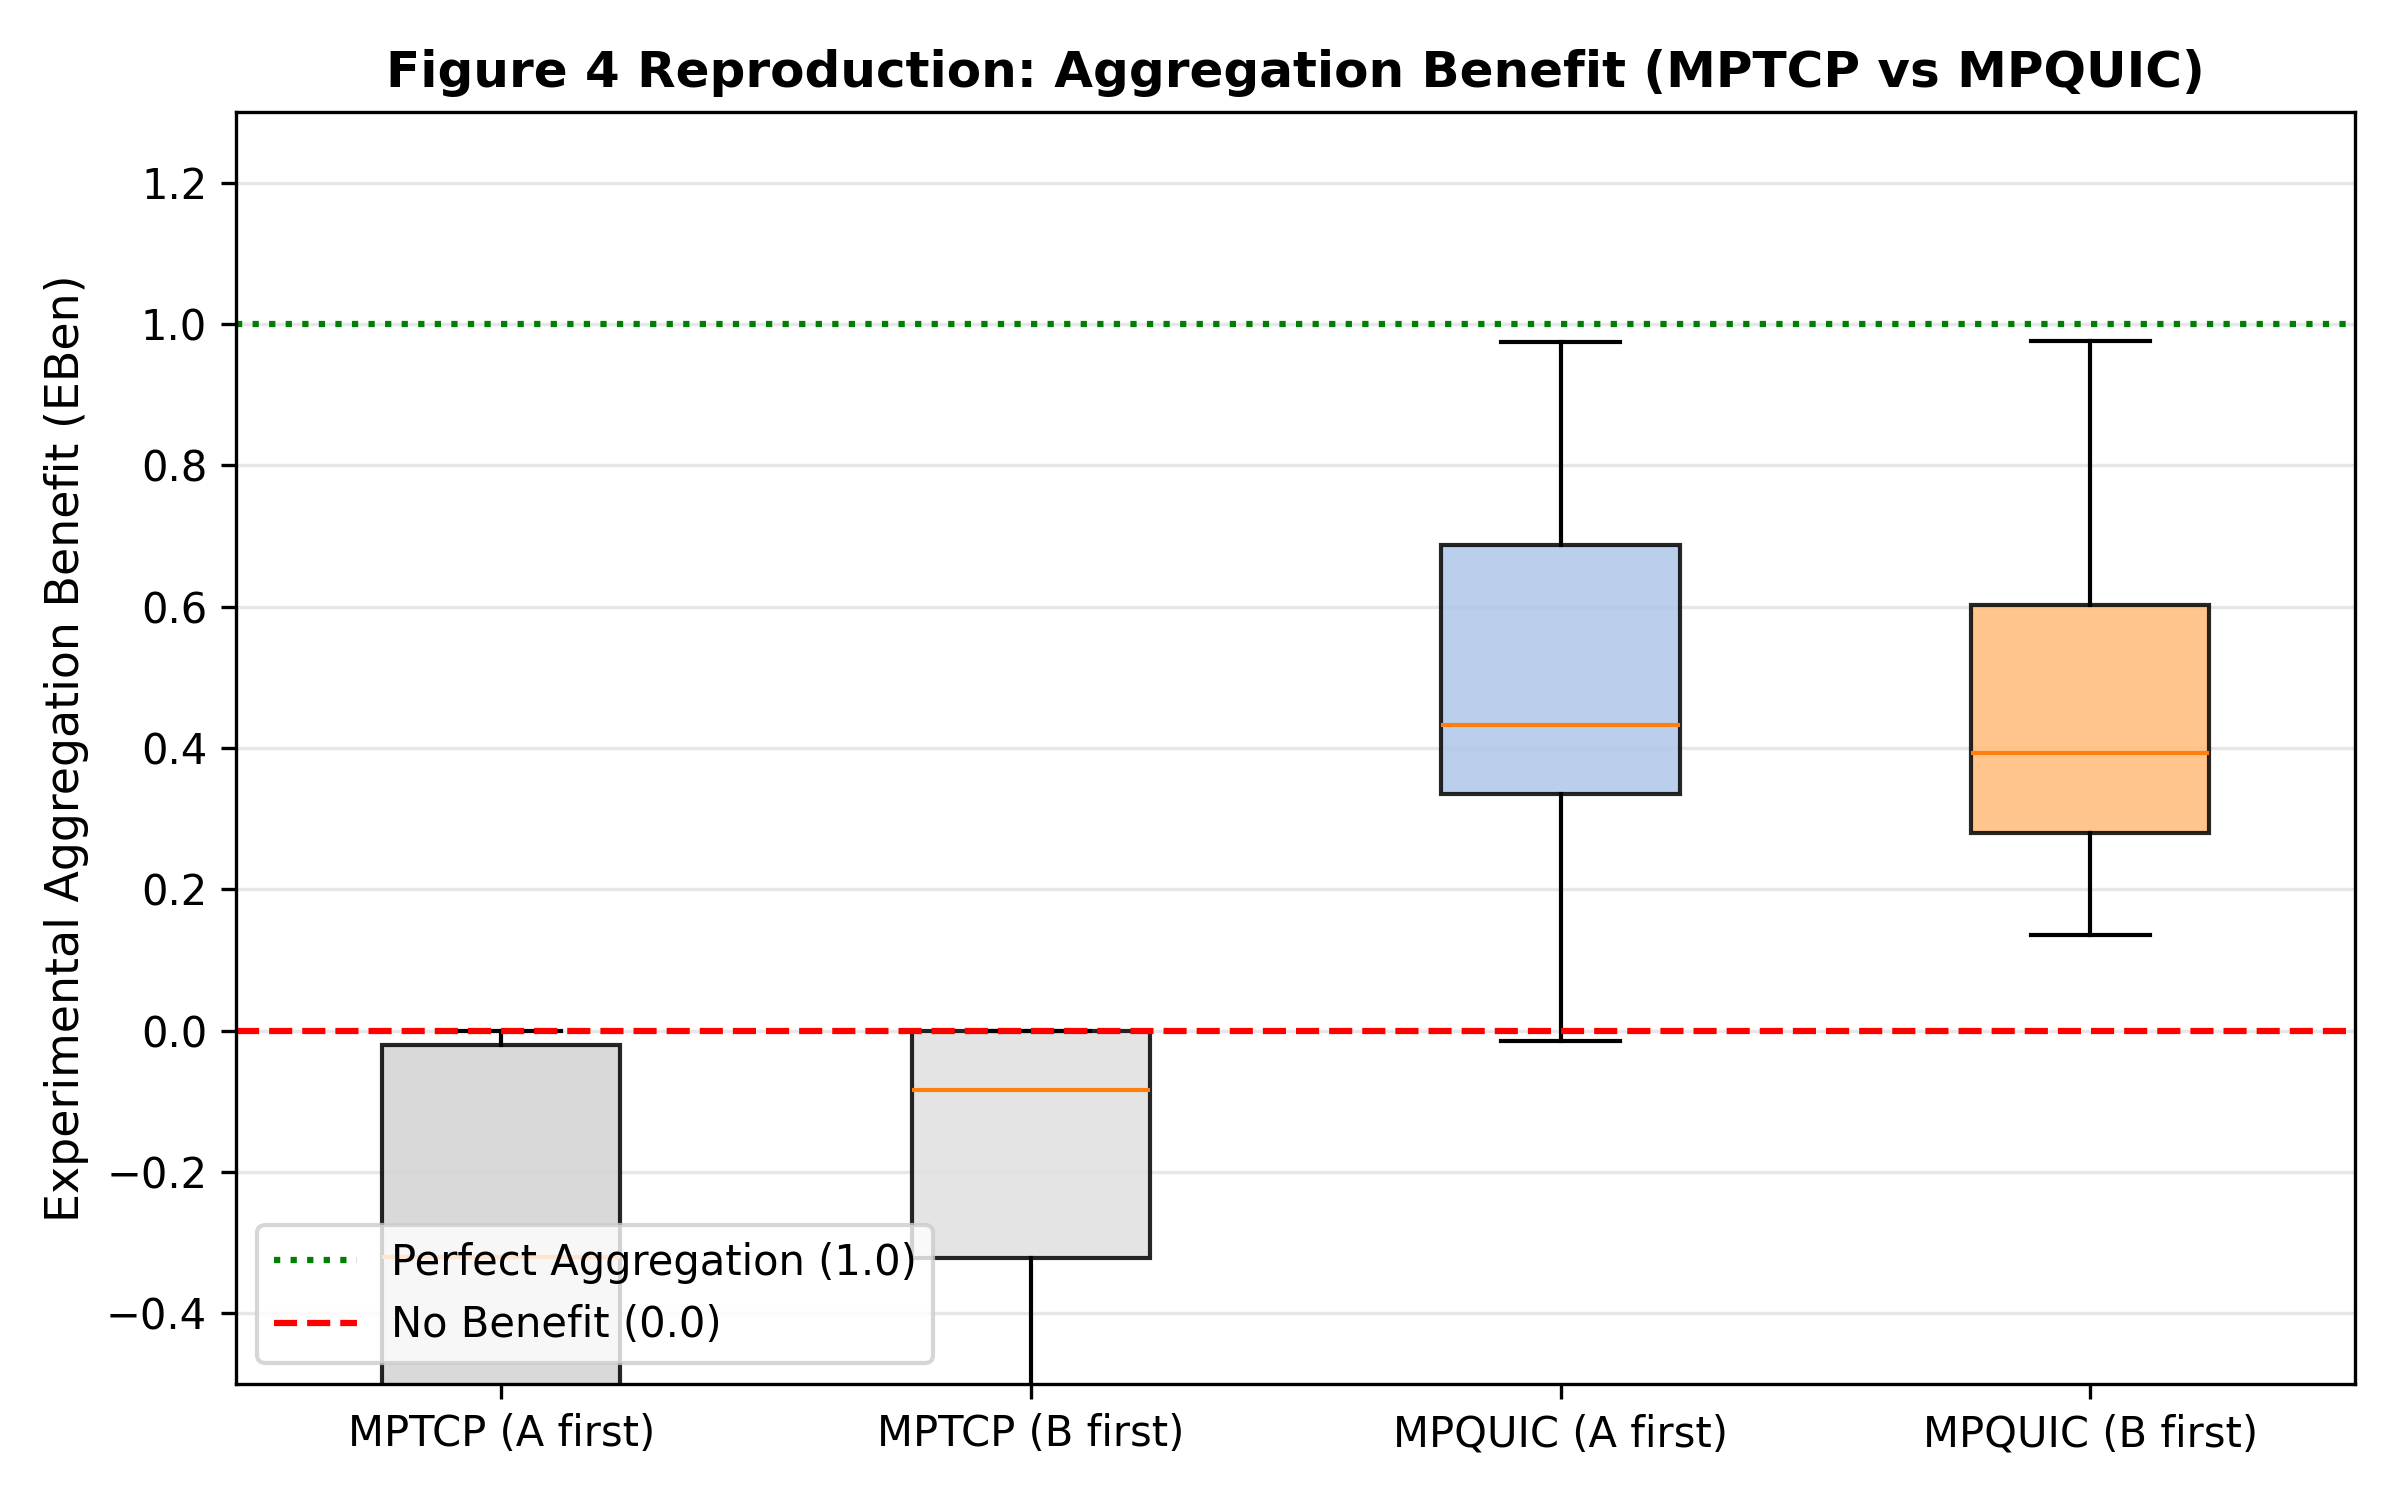
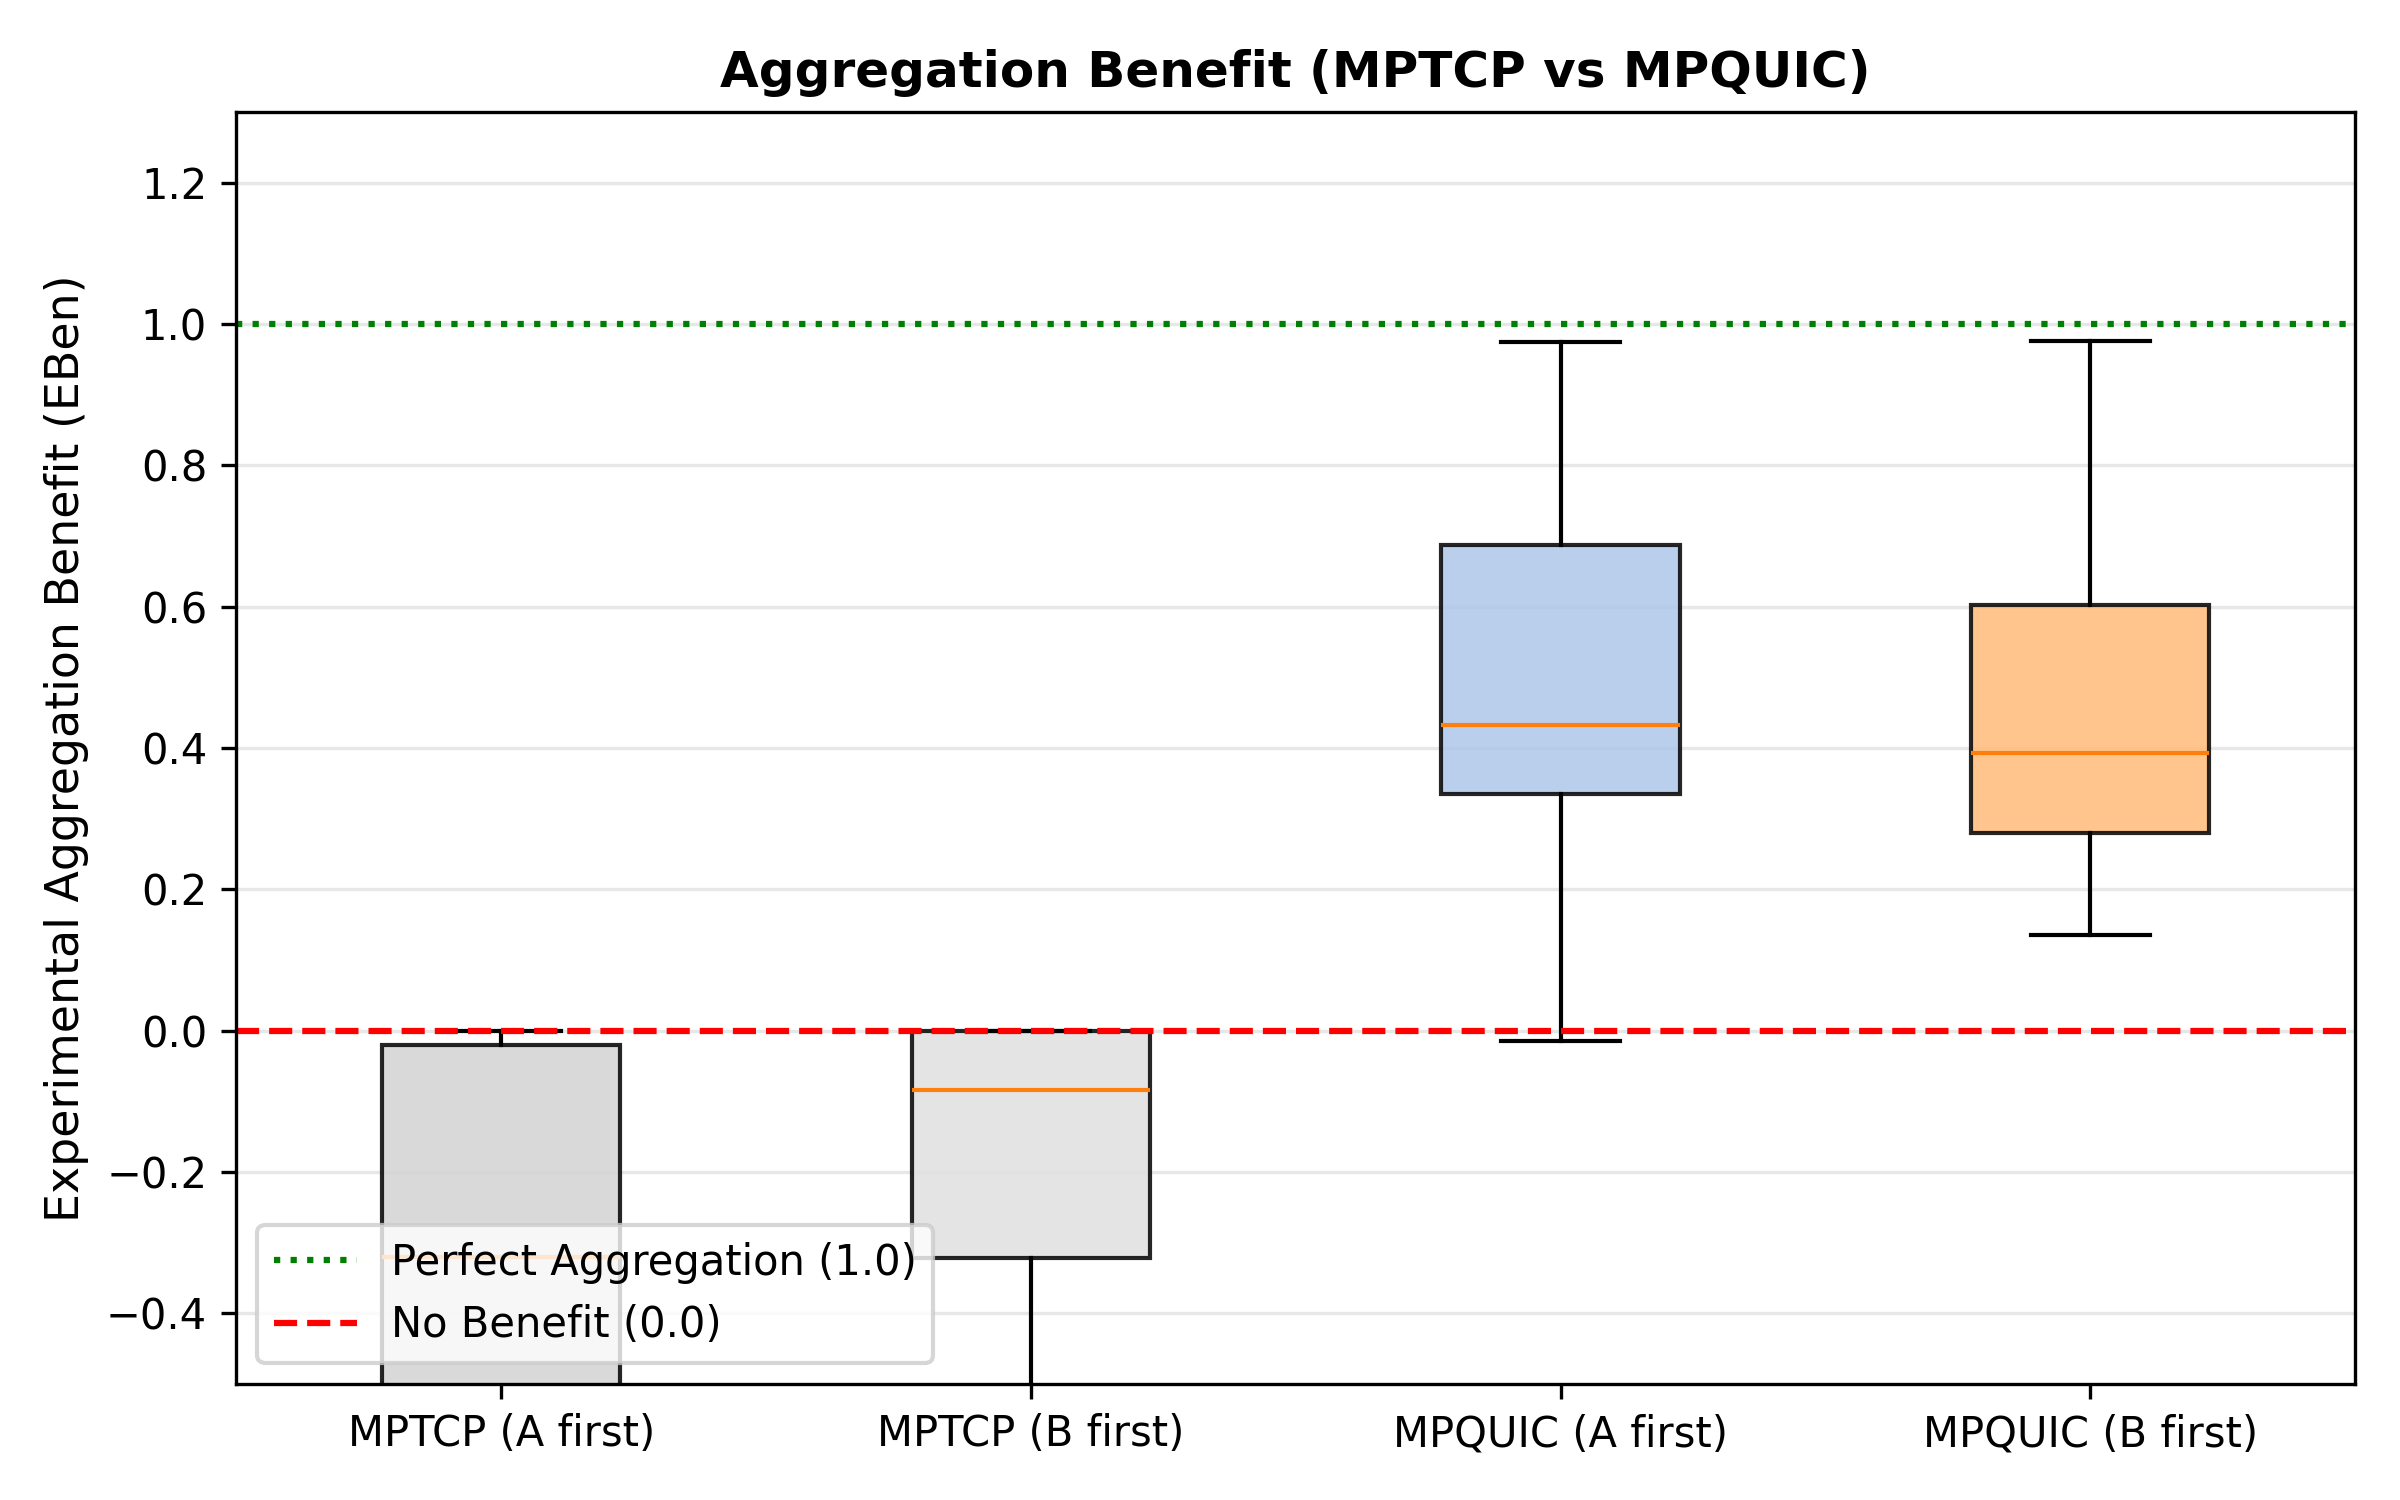
evaluted and generated figuers

Changed region(s): [[0.1562, 0.0307, 0.9375, 0.0613]]

diff --git a/scripts/plot_scenario1.py b/scripts/plot_scenario1.py
@@ -97,9 +97,9 @@ def main():
         plt.grid(True, alpha=0.3)
         plt.legend(loc='lower right', frameon=True)
         plt.tight_layout()
-        plt.savefig('figure3_time_ratio_cdf.png', dpi=300)
+        plt.savefig('time_ratio_cdf.png', dpi=300)
         plt.close()
-        print("[PLOT] Generated: 'figure3_time_ratio_cdf.png'")
+        print("[PLOT] Generated: 'time_ratio_cdf.png'")
 
         # Plot EBen Boxplot
         plt.figure(figsize=(7, 5))
@@ -116,9 +116,9 @@ def main():
         plt.grid(True, axis='y', alpha=0.3)
         plt.legend(loc='lower left', frameon=True)
         plt.tight_layout()
-        plt.savefig('figure4_eben_comparison.png', dpi=300)
+        plt.savefig('eben_comparison.png', dpi=300)
         plt.close()
-        print("[PLOT] Generated: 'figure4_eben_comparison.png'")
+        print("[PLOT] Generated: 'eben_comparison.png'")
         return
 
     # If has_tcp is True, proceed with 4-way evaluation:
@@ -172,14 +172,14 @@ def main():
 
     plt.xlabel('Time Ratio (Values > 1.0 mean QUIC is faster)', fontsize=11)
     plt.ylabel('CDF (Fraction of Scenarios)', fontsize=11)
-    plt.title('Figure 3 Reproduction: Time Ratio CDF across 100 Scenarios', fontsize=12, fontweight='bold')
+    plt.title('Time Ratio CDF across 100 Scenarios', fontsize=12, fontweight='bold')
     plt.xlim(0.4, 2.5)
     plt.ylim(-0.02, 1.02)
     plt.grid(True, alpha=0.3)
     plt.legend(loc='lower right', frameon=True)
     plt.tight_layout()
 
-    fig3_path = 'figure3_time_ratio_cdf.png'
+    fig3_path = 'time_ratio_cdf.png'
     plt.savefig(fig3_path, dpi=300)
     plt.close()
     print(f"[PLOT] Generated: '{fig3_path}'")
@@ -208,18 +208,18 @@ def main():
     plt.axhline(y=0.0, color='red', linestyle='--', linewidth=1.5, label='No Benefit (0.0)')
 
     plt.ylabel('Experimental Aggregation Benefit (EBen)', fontsize=11)
-    plt.title('Figure 4 Reproduction: Aggregation Benefit (MPTCP vs MPQUIC)', fontsize=12, fontweight='bold')
+    plt.title('Aggregation Benefit (MPTCP vs MPQUIC)', fontsize=12, fontweight='bold')
     plt.ylim(-0.5, 1.3)
     plt.grid(True, axis='y', alpha=0.3)
     plt.legend(loc='lower left', frameon=True)
     plt.tight_layout()
 
-    fig4_path = 'figure4_eben_comparison.png'
+    fig4_path = 'eben_comparison.png'
     plt.savefig(fig4_path, dpi=300)
     plt.close()
     print(f"[PLOT] Generated: '{fig4_path}'")
 
-    print("\n[SUCCESS] Figure 3 and Figure 4 generated matching the CoNEXT 2017 paper!")
+    print("\n[SUCCESS] generated matching the CoNEXT 2017 paper!")
 
 if __name__ == '__main__':
     main()

diff --git a/scripts/plot_scenario2_short.py b/scripts/plot_scenario2_short.py
@@ -79,13 +79,13 @@ def main():
 
     plt.xlabel('Download Completion Time (us)', fontsize=12)
     plt.ylabel('CDF (Fraction of Transfers)', fontsize=12)
-    plt.title('Figure 9: Short 256 KB Download Completion Time CDF\n(CoNEXT 2017 Section 4.2 Reproduction)', fontsize=13, fontweight='bold')
+    plt.title('Short 256 KB Download Completion Time CDF', fontsize=13, fontweight='bold')
     plt.grid(True, alpha=0.3)
     plt.legend(loc='lower right', frameon=True, fontsize=10)
     plt.ylim(-0.02, 1.02)
     plt.tight_layout()
 
-    out_fig9 = 'figure9_completion_time_cdf.png'
+    out_fig9 = 'completion_time_cdf.png'
     plt.savefig(out_fig9, dpi=300)
     plt.close()
     print(f"[SAVED] {out_fig9}")
@@ -125,18 +125,18 @@ def main():
 
         plt.axhline(0, color='red', linestyle='--', linewidth=1.5, label='E_Ben = 0 (No Multipath Benefit)')
         plt.ylabel('Aggregation Benefit (E_Ben)', fontsize=12)
-        plt.title('Figure 10: Aggregation Benefit (E_Ben) for Short Transfers\n(Demonstrating Multipath Disadvantage for Small Objects)', fontsize=12, fontweight='bold')
+        plt.title('Aggregation Benefit (E_Ben) for Short Transfers\n(Demonstrating Multipath Disadvantage for Small Objects)', fontsize=12, fontweight='bold')
         plt.ylim(-1.0, 1.0)
         plt.grid(True, axis='y', alpha=0.3)
         plt.legend(loc='upper right', frameon=True)
         plt.tight_layout()
 
-        out_fig10 = 'figure10_eben_short_boxplot.png'
+        out_fig10 = 'eben_short_boxplot.png'
         plt.savefig(out_fig10, dpi=300)
         plt.close()
         print(f"[SAVED] {out_fig10}")
 
-    print("\n[SUCCESS] Figures 9 and 10 generated successfully!")
+    print("\n[SUCCESS] generated successfully!")
 
 if __name__ == '__main__':
     main()
